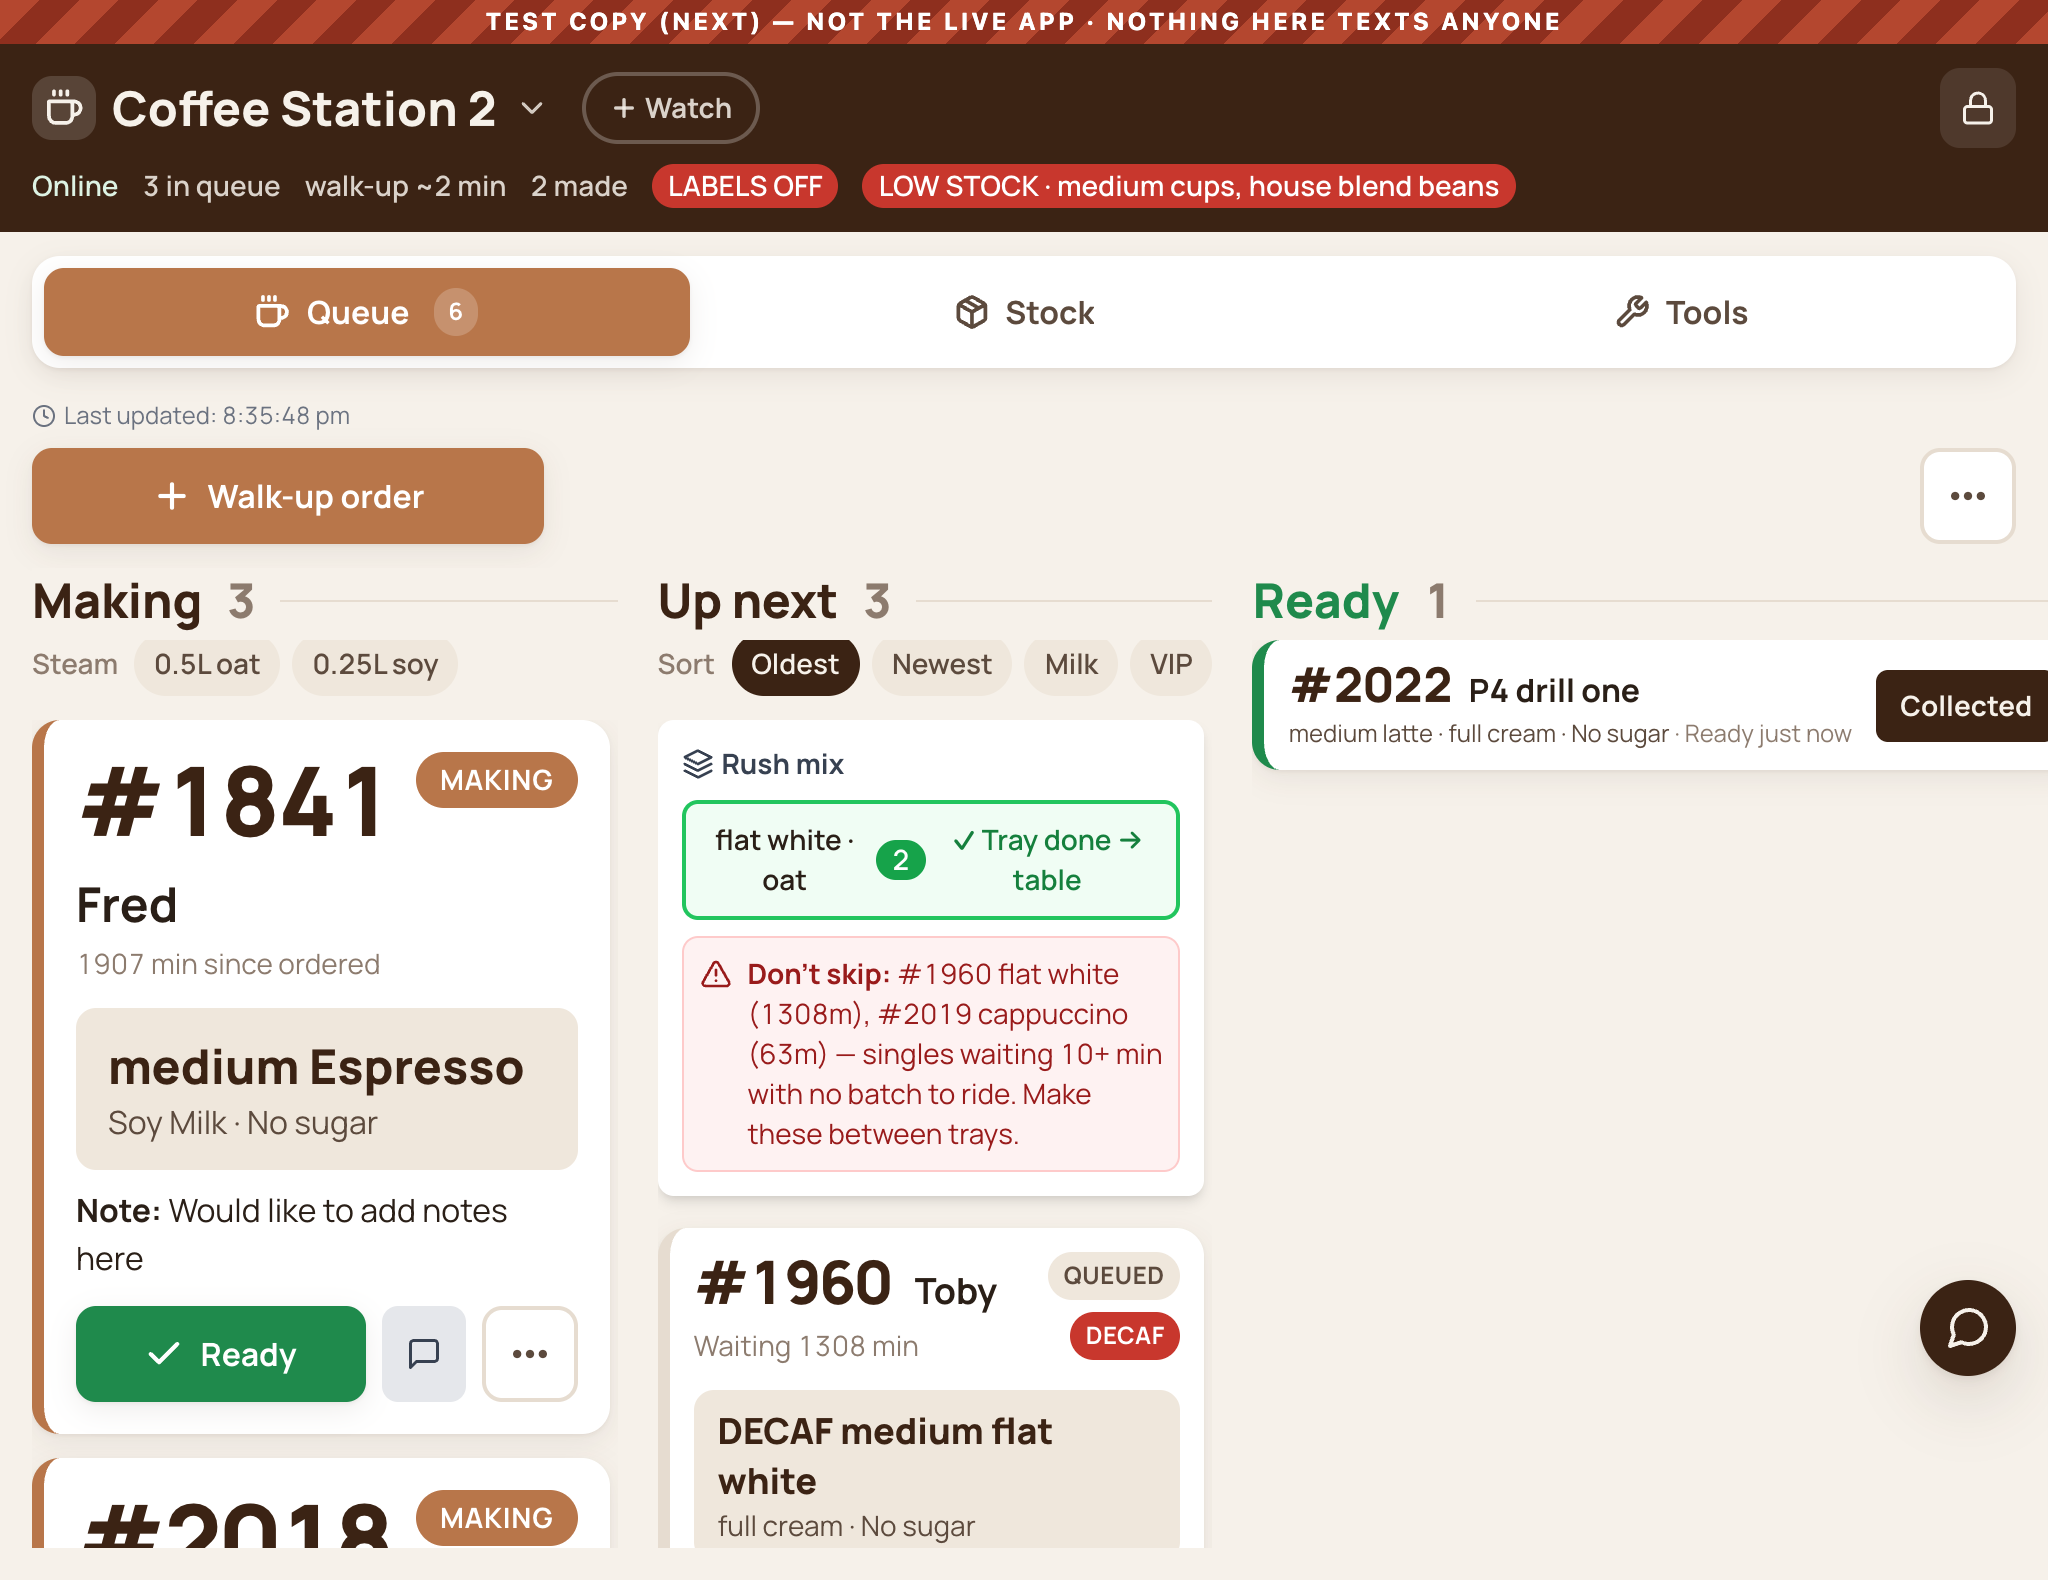
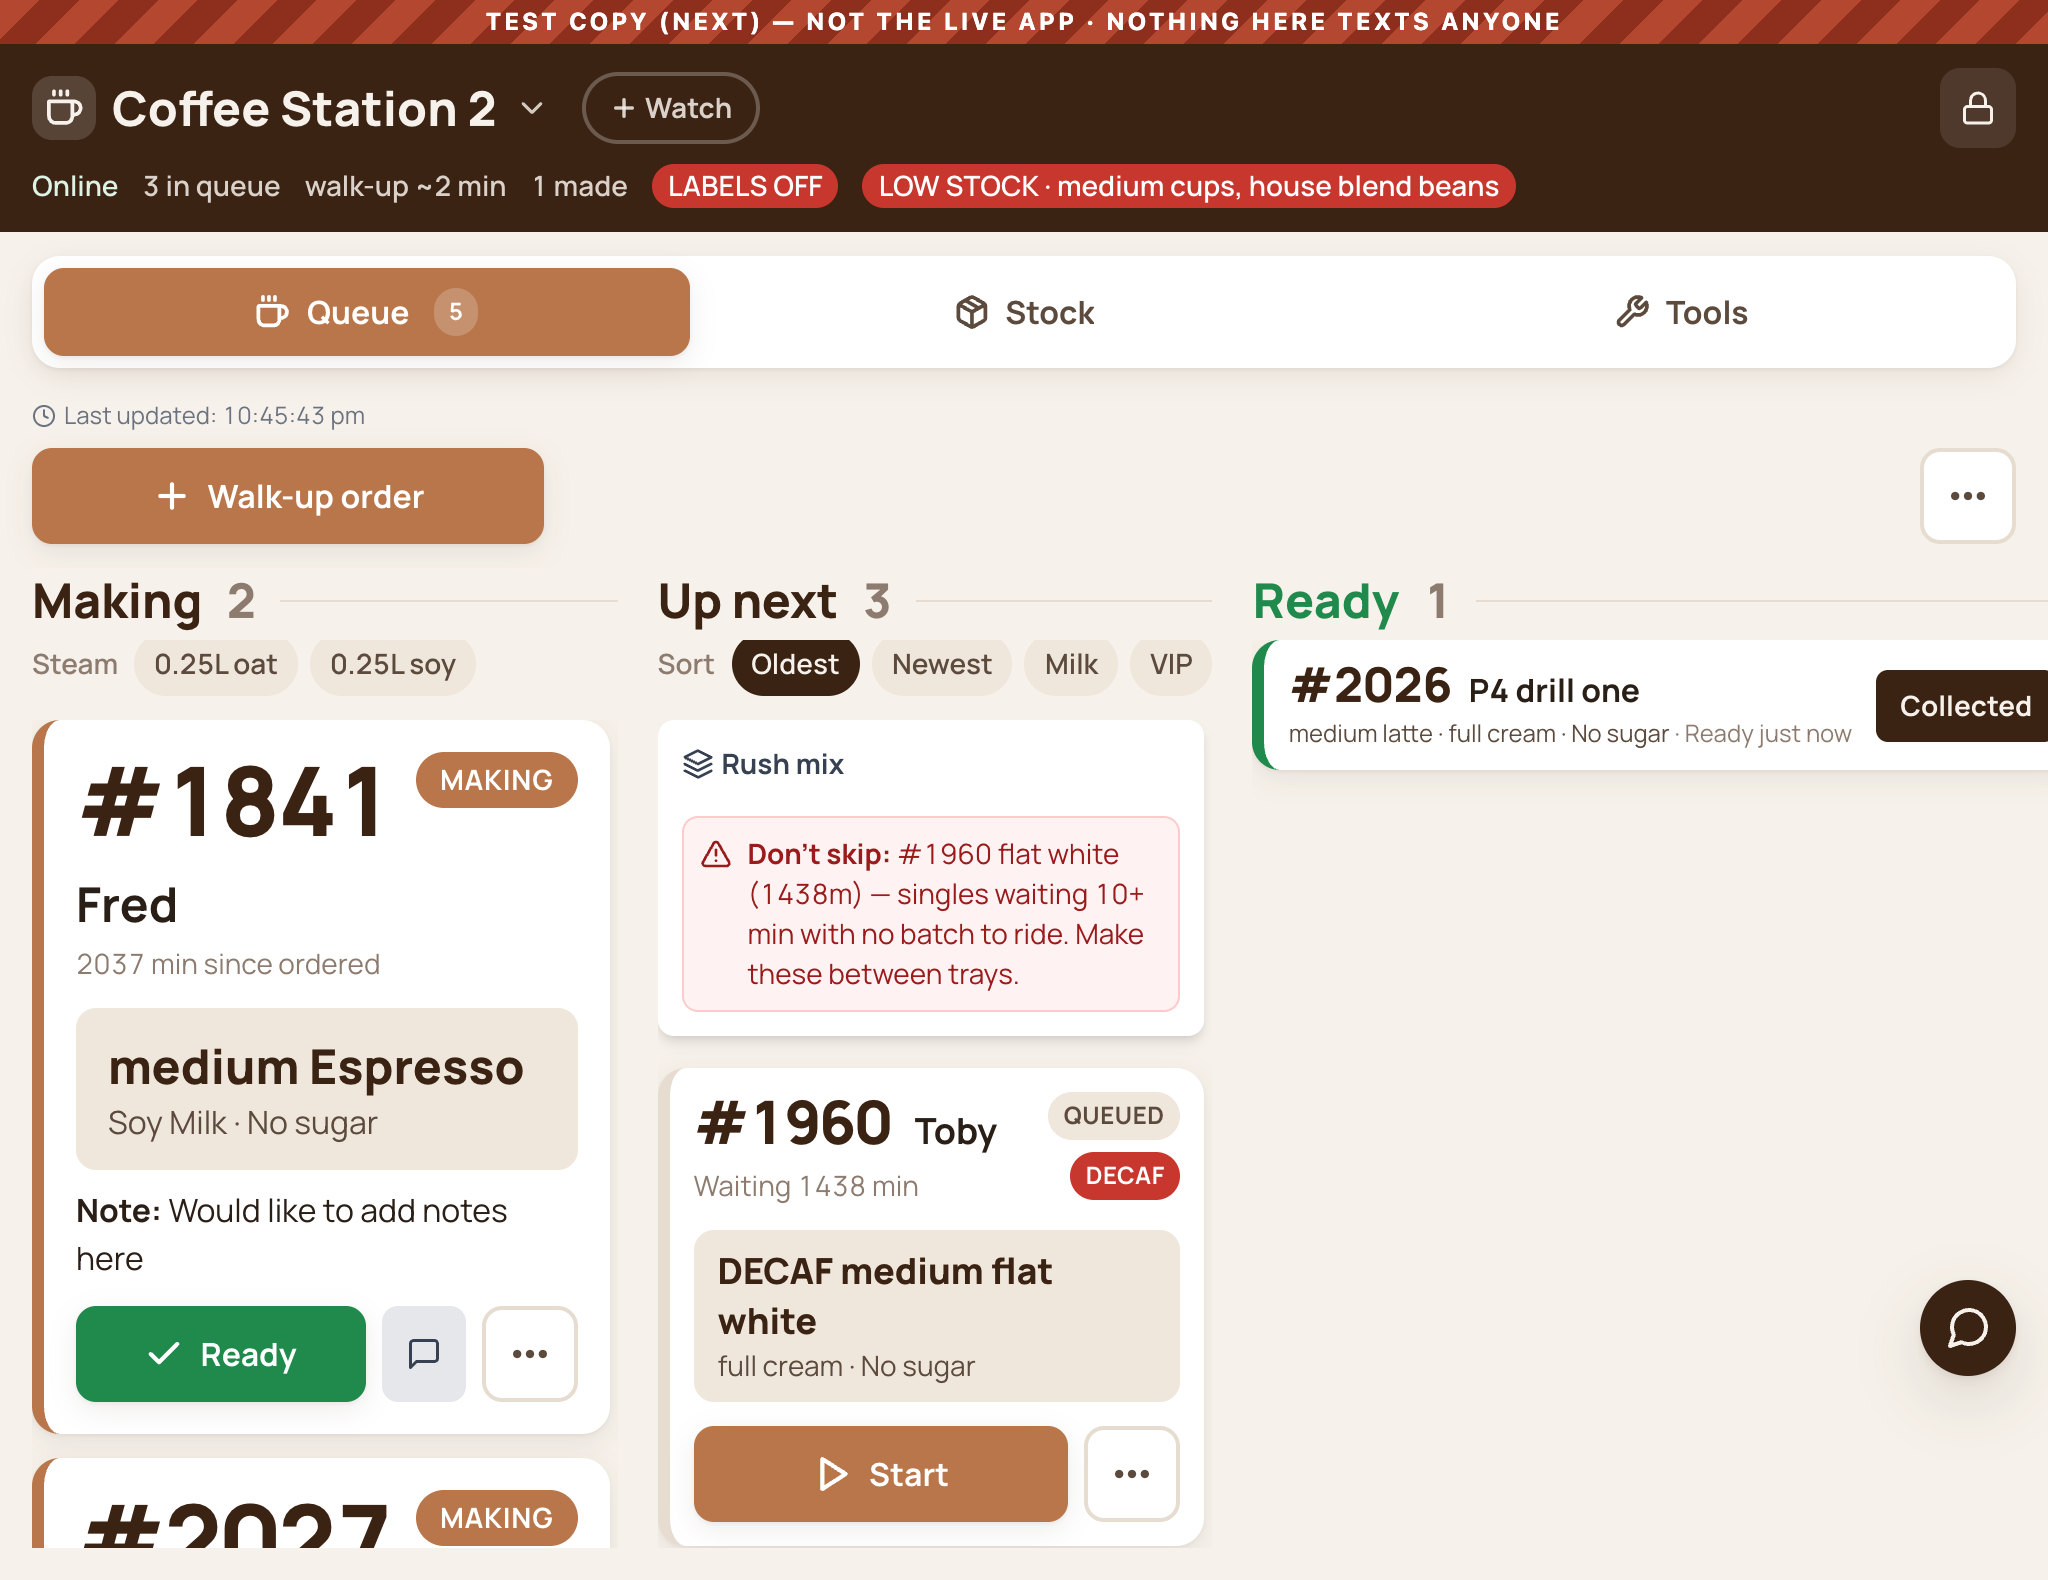
orders: stop re-sending 206 KB that has not changed
Every barista screen polls /api/orders several times a second and gets the
full 206 KB payload back every single time, unchanged. Four screens at
Treenet, and it is the load that drained the connection pool on 2026-09-08.

_revalidating_json already existed for exactly this -- it was added for the
display config after Treenet's 1.5 GB/hour egress peaks. /api/orders is the
bigger offender and never got it.

An unchanged poll now returns 304 with no body: 206,175 bytes -> 0.

The tag is computed from the SERIALISED payload, so it cannot go stale. If
anything about any order changes, the bytes change and the tag changes with
them -- verified: a new order makes the old tag return 200 with fresh data.

Honest limit: this saves the bandwidth, not the database round trip. The query
still runs to build the payload that gets hashed. Cutting the query too needs
a cheap change-stamp to test first, and that is only safe once every write
path is known to touch updated_at. Worth doing in phase 8; not worth guessing
at on a live ordering system.

Verified: 18/18 barista, 3/3 stuck-collected, 11/11 report.

diff --git a/routes/consolidated_api_routes.py b/routes/consolidated_api_routes.py
@@ -642,7 +642,19 @@ def orders():
                     'groupLabel': order_details.get('group_label'),
                 })
 
-            return jsonify({
+            # 206 KB, re-sent in full several times a second to every barista
+            # screen. _revalidating_json hashes the payload and answers an
+            # unchanged one with a 304 and no body -- the same treatment the
+            # display config got after Treenet's egress peaks.
+            #
+            # The tag is computed from the SERIALISED payload, so it cannot go
+            # stale: if anything about any order changed, the bytes change and
+            # the tag changes with them. That does mean the query still runs;
+            # this saves the bandwidth, not the database round trip. Cutting
+            # the query as well needs a cheap change-stamp to test first, and
+            # that is only safe once every write path is known to touch
+            # updated_at -- worth doing, not worth guessing at.
+            return _revalidating_json({
                 'status': 'success',
                 'data': orders,
                 'message': f'Retrieved {len(orders)} orders'
